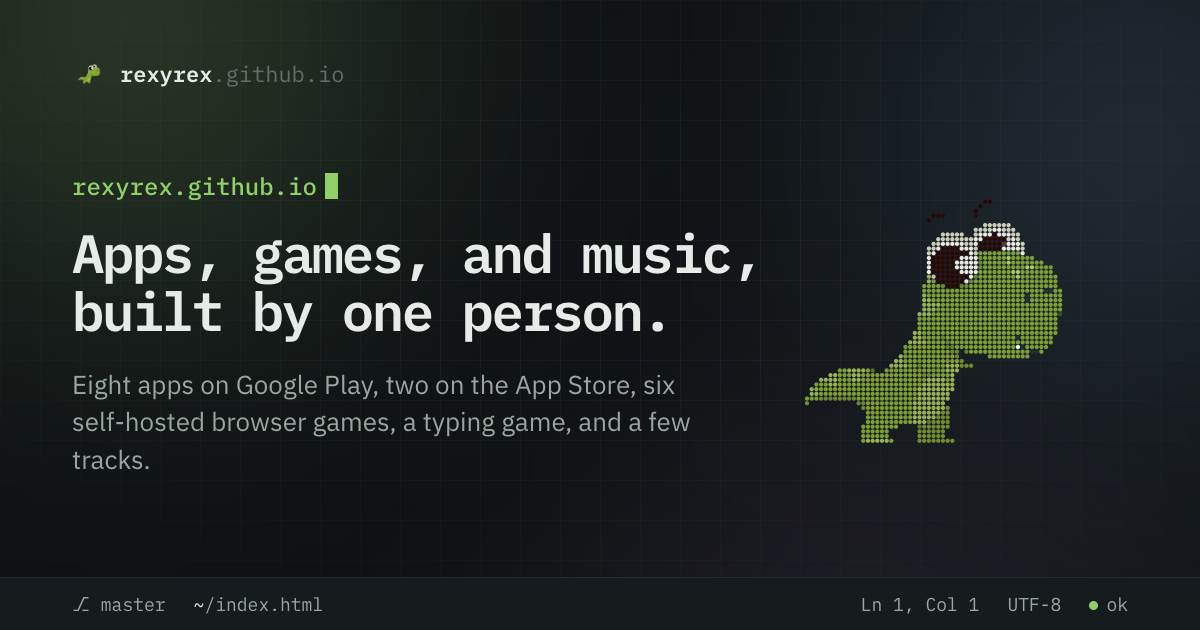
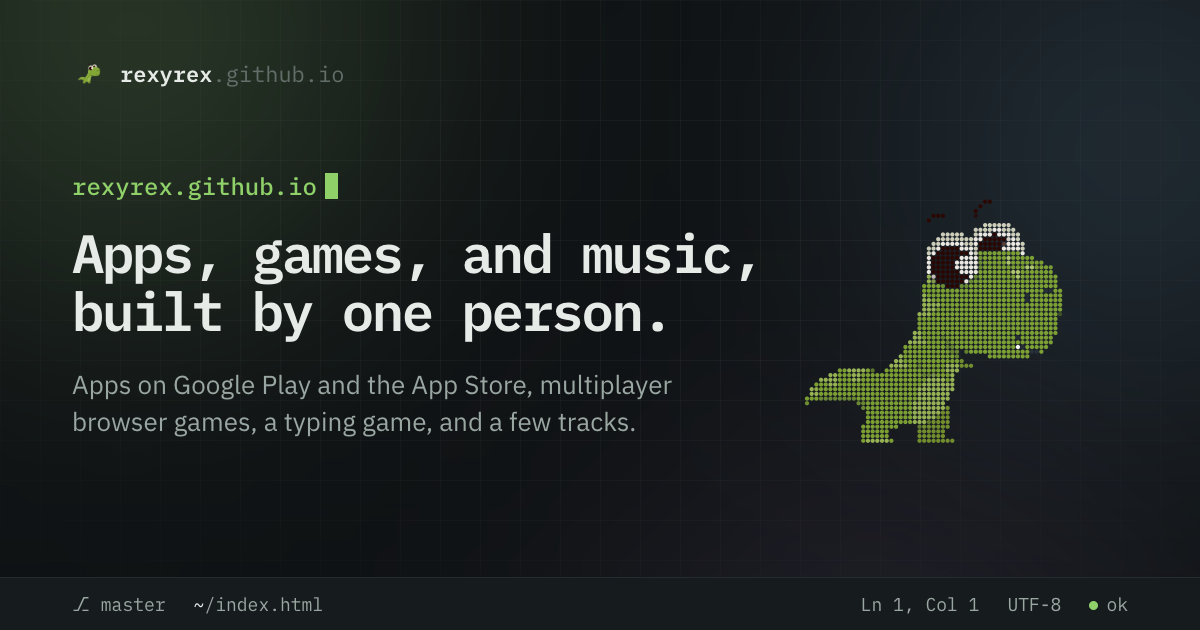
Copy: drop inventory counts and the hosting disclosure
Every "eight apps / two on the App Store / six games" claim on the site is
now an adjective ("apps on Google Play and the App Store", "multiplayer
browser games"), and nothing says where the games portal runs — the
homelab / "box at home" / "self-hosted" phrasing is gone from the landing
page, the meta and social copy, the manifest, the devlog and the README.

Touched: index.html (meta/OG/Twitter, hero lede, statement, apps and games
chapter headings, the net pill, the index rows, the now card),
js/landing.js (pill label), site.webmanifest, _tools/og/render.mjs plus a
re-rendered assets/og/home.png, README.md (with a note to keep new copy
count-free), and the September devlog post, whose title loses "a sixth
game" in favour of "a chapter for the games".

Verified in headless Chrome: no console errors or warnings on the landing
page, /log/ or the renewal post.

Changed region(s): [[0.0617, 0.6032, 0.5858, 0.6937], [0.0617, 0.7238, 0.1233, 0.754]]

diff --git a/index.html b/index.html
@@ -4,7 +4,7 @@
     <meta charset="UTF-8">
     <meta name="viewport" content="width=device-width, initial-scale=1.0, viewport-fit=cover">
     <title>Rexyrex</title>
-    <meta name="description" content="Rexyrex builds mobile apps, games, and music from Korea. Eight apps on Google Play, two on the App Store, six multiplayer browser games, a Korean and English typing game, Deadly Balloons, and KakaoTalk chat analyzers.">
+    <meta name="description" content="Rexyrex builds mobile apps, games, and music from Korea. Apps on Google Play and the App Store, multiplayer browser games, a Korean and English typing game, Deadly Balloons, and KakaoTalk chat analyzers.">
     <meta name="color-scheme" content="dark light">
     <link rel="icon" href="/favicon.ico">
     <link rel="canonical" href="https://rexyrex.github.io/">
@@ -16,14 +16,14 @@
     <meta property="og:site_name" content="rexyrex.github.io">
     <meta property="og:url" content="https://rexyrex.github.io/">
     <meta property="og:title" content="Rexyrex — apps, games, and music, built by one person">
-    <meta property="og:description" content="Eight apps on Google Play, two on the App Store, six self-hosted browser games, a Korean and English typing game, Deadly Balloons, and a few tracks.">
+    <meta property="og:description" content="Apps on Google Play and the App Store, multiplayer browser games, a Korean and English typing game, Deadly Balloons, and a few tracks.">
     <meta property="og:image" content="https://rexyrex.github.io/assets/og/home.png">
     <meta property="og:image:width" content="1200">
     <meta property="og:image:height" content="630">
     <meta property="og:image:alt" content="Rexyrex — apps, games, and music, built by one person">
     <meta name="twitter:card" content="summary_large_image">
     <meta name="twitter:title" content="Rexyrex — apps, games, and music, built by one person">
-    <meta name="twitter:description" content="Eight apps on Google Play, two on the App Store, six self-hosted browser games, a Korean and English typing game, Deadly Balloons, and a few tracks.">
+    <meta name="twitter:description" content="Apps on Google Play and the App Store, multiplayer browser games, a Korean and English typing game, Deadly Balloons, and a few tracks.">
     <meta name="twitter:image" content="https://rexyrex.github.io/assets/og/home.png">
     <script>(function(){var d=document.documentElement;d.classList.add('js');try{var t=localStorage.getItem('rex-theme');if(t==='light'||t==='dark')d.setAttribute('data-theme',t);}catch(e){}})();</script>
     <link rel="preconnect" href="https://fonts.googleapis.com">
@@ -70,8 +70,8 @@
                     <p class="eyebrow hero-eyebrow" id="heroEyebrow" data-hero>rexyrex.github.io</p>
                     <h1 class="hero-title" id="hero-title">Apps, games, and music,<br>built by one person.</h1>
                     <p class="hero-lede" data-hero>
-                        <strong>Rexyrex</strong>, building from Korea: mobile apps on both stores, six multiplayer
-                        browser games on a homelab, a typing game with live leaderboards, and the occasional track.
+                        <strong>Rexyrex</strong>, building from Korea: mobile apps on both stores, multiplayer
+                        browser games, a typing game with live leaderboards, and the occasional track.
                     </p>
                     <div class="hero-actions" data-hero>
                         <a class="btn btn-primary" href="/typing/index.html">Play the typing game <span class="arrow">→</span></a>
@@ -88,7 +88,7 @@
         <!-- 01 · Statement: lights up word by word, then holds while the rex bursts -->
         <section class="statement" id="statement" aria-label="About this site">
             <div class="wrap">
-                <p class="statement-text" id="statementText">Eight apps on Google Play. Two on the App Store. Six browser games. A typing game in two languages. A balloon-popping game in Java. A few tracks. Everything here is designed, built and maintained by one developer in Korea.</p>
+                <p class="statement-text" id="statementText">Apps on Google Play and the App Store. A handful of multiplayer browser games. A typing game in Korean and English. A balloon-popping game in Java. A few tracks. Everything here is designed, built and maintained by one developer in Korea.</p>
             </div>
         </section>
 
@@ -150,13 +150,13 @@
             </div>
         </section>
 
-        <!-- 04 · /apps/ — eight phones scroll sideways as you scroll down -->
+        <!-- 04 · /apps/ — phones scroll sideways as you scroll down -->
         <section class="chapter chapter-apps" id="apps" aria-labelledby="apps-title">
             <div class="stage stage-apps" id="appsStage">
                 <div class="wrap chapter-copy chapter-copy-wide" data-reveal-group>
                     <span class="eyebrow">/apps/</span>
-                    <h2 id="apps-title" data-lines>Eight apps on Google Play, two on the App Store.</h2>
-                    <p>Mostly Flutter, one in native Android, all built and published solo. Every phone links to that app's privacy policy or its store page.</p>
+                    <h2 id="apps-title" data-lines>Published on Google Play and the App Store.</h2>
+                    <p>Mostly Flutter, some native Android, all built and published solo. Every phone links to that app's privacy policy or its store page.</p>
                 </div>
                 <div class="apps-track" id="appsTrack">
 
@@ -356,16 +356,16 @@
             </div>
         </section>
 
-        <!-- 05 · games.rexy.win — six self-hosted browser games -->
+        <!-- 05 · games.rexy.win — multiplayer browser games -->
         <section class="chapter chapter-games" id="games" aria-labelledby="games-title">
             <div class="wrap">
                 <div class="chapter-copy chapter-copy-wide games-copy" data-reveal-group>
                     <span class="eyebrow">games.rexy.win</span>
-                    <h2 id="games-title" data-lines>Six browser games, served from a box at home.</h2>
+                    <h2 id="games-title" data-lines>Multiplayer games that run in a browser tab.</h2>
                     <p>A dino party brawler, a 3D arena shooter, a circuit-board RTS, a cute-horror house, a draw-and-guess party and 3D chess. Multiplayer over WebSockets, no installs, one link each.</p>
                     <div class="chapter-actions">
                         <a class="btn btn-primary" href="https://games.rexy.win" target="_blank" rel="noopener noreferrer">Pick a game</a>
-                        <span class="net-pill" id="gamesNet" data-state="idle"><i class="net-dot" aria-hidden="true"></i><span>dino network</span><b id="gamesNetLabel">6 games</b></span>
+                        <span class="net-pill" id="gamesNet" data-state="idle"><i class="net-dot" aria-hidden="true"></i><span>dino network</span><b id="gamesNetLabel">games</b></span>
                     </div>
                 </div>
                 <div class="games-grid" data-reveal-group>
@@ -499,7 +499,7 @@
                     <span class="index-path">/apps/</span>
                     <span class="index-body">
                         <span class="index-name">Published apps</span>
-                        <span class="index-desc">Eight apps on Google Play, two of them on the App Store too, and their privacy policies.</span>
+                        <span class="index-desc">Apps on Google Play and the App Store, and their privacy policies.</span>
                     </span>
                     <span class="index-meta">Flutter · Android · iOS</span>
                     <span class="index-arrow" aria-hidden="true">→</span>
@@ -508,7 +508,7 @@
                     <span class="index-path">games.rexy.win</span>
                     <span class="index-body">
                         <span class="index-name">Browser games</span>
-                        <span class="index-desc">Six multiplayer browser games, self-hosted on a homelab: Rexy Arcade, FRONTLINE, OVERCLOCK, SPOOKY FRIENDS, DOODLINGS and CHESSLINGS.</span>
+                        <span class="index-desc">Multiplayer browser games: Rexy Arcade, FRONTLINE, OVERCLOCK, SPOOKY FRIENDS, DOODLINGS and CHESSLINGS.</span>
                     </span>
                     <span class="index-meta">Node · WebSockets · Three.js</span>
                     <span class="index-arrow" aria-hidden="true">↗</span>
@@ -573,7 +573,7 @@
                     <span class="eyebrow">now</span>
                     <h3 id="now-title">What's moving</h3>
                     <ul class="now-list">
-                        <li><i class="now-dot is-live" aria-hidden="true"></i><span><b>DOODLINGS</b> just joined the games portal as the sixth game.</span></li>
+                        <li><i class="now-dot is-live" aria-hidden="true"></i><span><b>DOODLINGS</b> just joined the games portal.</span></li>
                         <li><i class="now-dot" aria-hidden="true"></i><span><b>Reverse Image Search</b> is being prepared for the App Store.</span></li>
                         <li><i class="now-dot" aria-hidden="true"></i><span>A handful of unreleased apps are in the lab.</span></li>
                         <li><i class="now-dot" aria-hidden="true"></i><span>This site: a command palette (<kbd data-palette-kbd>⌘K</kbd>), a <a href="/log/">devlog</a>, social cards, page transitions.</span></li>

diff --git a/log/2026-09-renewal.html b/log/2026-09-renewal.html
@@ -3,7 +3,7 @@
 <head>
     <meta charset="UTF-8">
     <meta name="viewport" content="width=device-width, initial-scale=1.0">
-    <title>A command palette, page transitions and a sixth game — Rexyrex</title>
+    <title>A command palette, page transitions and a chapter for the games — Rexyrex</title>
     <meta name="description" content="What changed on rexyrex.github.io in September 2026: a command palette on every page, cross-document view transitions, a games chapter, social cards, a 404 page and a web manifest.">
     <meta name="color-scheme" content="dark light">
     <link rel="icon" href="/favicon.ico">
@@ -15,7 +15,7 @@
     <meta property="og:type" content="article">
     <meta property="og:site_name" content="rexyrex.github.io">
     <meta property="og:url" content="https://rexyrex.github.io/log/2026-09-renewal.html">
-    <meta property="og:title" content="A command palette, page transitions and a sixth game">
+    <meta property="og:title" content="A command palette, page transitions and a chapter for the games">
     <meta property="og:description" content="What changed on the site in September 2026.">
     <meta property="og:image" content="https://rexyrex.github.io/assets/og/log.png">
     <meta property="og:image:width" content="1200">
@@ -23,7 +23,7 @@
     <meta property="og:image:alt" content="Devlog — Rexyrex">
     <meta property="article:published_time" content="2026-09-09">
     <meta name="twitter:card" content="summary_large_image">
-    <meta name="twitter:title" content="A command palette, page transitions and a sixth game">
+    <meta name="twitter:title" content="A command palette, page transitions and a chapter for the games">
     <meta name="twitter:description" content="What changed on the site in September 2026.">
     <meta name="twitter:image" content="https://rexyrex.github.io/assets/og/log.png">
     <script>(function(){try{var t=localStorage.getItem('rex-theme');if(t==='light'||t==='dark')document.documentElement.setAttribute('data-theme',t);}catch(e){}})();</script>
@@ -41,22 +41,22 @@
     <main class="wrap" id="main">
         <header class="post-head" data-reveal-group>
             <p class="eyebrow">/log/2026-09-renewal.html</p>
-            <h1>A command palette, page transitions and a sixth game</h1>
+            <h1>A command palette, page transitions and a chapter for the games</h1>
             <p class="post-meta"><time datetime="2026-09-09">2026-09-09</time><span>·</span><span>site · chrome</span><span>·</span><span>4 min</span></p>
             <p class="lede">The front page got its scroll story last week. This week is about everything around it: the chrome every page shares, what a shared link looks like, and the things a site is expected to have in 2026.</p>
         </header>
 
         <article class="article post" data-reveal-group>
             <h2>⌘K on every page</h2>
-            <p>Press <kbd>⌘K</kbd> (<kbd>Ctrl K</kbd> elsewhere), or click the search button in the top bar or the status bar. A palette lists every page, all six games, every published app with its privacy policy, and a few actions: toggle the theme, copy the e-mail address, jump to the top, open the current page's source on GitHub. Type to filter, arrows to move, enter to go. It is one dependency-free file, <code>/js/palette.js</code>, that the chrome loader injects everywhere, including the generated privacy-policy pages and the Bootstrap-era typing game, where it also swallows its own keystrokes so the game does not count them.</p>
+            <p>Press <kbd>⌘K</kbd> (<kbd>Ctrl K</kbd> elsewhere), or click the search button in the top bar or the status bar. A palette lists every page, every game, every published app with its privacy policy, and a few actions: toggle the theme, copy the e-mail address, jump to the top, open the current page's source on GitHub. Type to filter, arrows to move, enter to go. It is one dependency-free file, <code>/js/palette.js</code>, that the chrome loader injects everywhere, including the generated privacy-policy pages and the Bootstrap-era typing game, where it also swallows its own keystrokes so the game does not count them.</p>
 
             <h2>Pages crossfade instead of flashing</h2>
             <p>The site is plain multi-page HTML, and it now opts into cross-document view transitions with a single rule, <code>@view-transition { navigation: auto }</code>. Same-origin navigations crossfade; the top bar and the status bar carry <code>view-transition-name</code>s so they hold still while the page underneath changes. The one trick needed: the bars are fetched at runtime, so the loader now keeps a copy of the fragment in <code>sessionStorage</code> and mounts it synchronously on the next page, before the browser snapshots it. Reduced motion turns the transitions off.</p>
 
             <h2>A chapter for the games</h2>
-            <p>Six self-hosted multiplayer games were the most impressive thing on the site and they had one row in the index. They have a chapter now, between the phones and the music: six little browser windows, each drawn in CSS in the game's own two accent colours from the portal's registry, with a tile maze, a crosshair over a floor grid, circuit traces, a flashlight beam with blinking eyes, a scribble that draws itself, and a chessboard. The "dino network" pill turns green when the portal answers a ping.</p>
+            <p>The multiplayer games were the most impressive thing on the site and they had one row in the index. They have a chapter now, between the phones and the music: a little browser window per game, each drawn in CSS in the game's own two accent colours from the portal's registry, with a tile maze, a crosshair over a floor grid, circuit traces, a flashlight beam with blinking eyes, a scribble that draws itself, and a chessboard. The "dino network" pill turns green when the portal answers a ping.</p>
             <p>That ping deserves a note. The portal's status API does not send a CORS header yet, so the page makes an opaque <code>no-cors</code> request: it resolves when the server answers at all and rejects when it does not, which is an honest "up" without a console full of red. When the header lands, the same pill can show per-game status.</p>
-            <p>The count itself was already stale: the copy said five games while the portal served six, DOODLINGS having launched in the meantime. Every number on the page is a hand-typed claim, so this post is also a reminder to check them.</p>
+            <p>The old copy was stale too — it had missed DOODLINGS launching in the meantime. Hand-typed claims about a moving list go out of date, so the copy no longer counts anything: the portal is the source of truth, and the page just points at it.</p>
 
             <h2>What a shared link looks like</h2>
             <p>Every hand-written page now has Open Graph and Twitter card tags and its own 1200×630 image: the page's path, its title, and the rex rendered as a dot matrix from the same PNG the particle hero uses. Pasting a link into KakaoTalk, Discord or X finally shows something. The cards are rendered from an HTML template in headless Chrome, so a new page is a new line in a list.</p>

diff --git a/js/landing.js b/js/landing.js
@@ -287,7 +287,7 @@
         phones.forEach(function (p) { io.observe(p); });
     })();
 
-    // games.rexy.win pill: "6 games · up" once the portal answers a ping
+    // games.rexy.win pill: "games · up" once the portal answers a ping
     // (common.js does the opaque request; see rexChrome.pingGames).
     (function () {
         var pill = document.getElementById('gamesNet');
@@ -296,7 +296,7 @@
         window.rexChrome.pingGames().then(function (up) {
             if (up === null) return;
             pill.setAttribute('data-state', up ? 'up' : 'down');
-            if (label) label.textContent = up ? '6 games · up' : '6 games · offline';
+            if (label) label.textContent = up ? 'games · up' : 'games · offline';
         });
     })();
 

diff --git a/log/index.html b/log/index.html
@@ -48,7 +48,7 @@
             <a class="log-row" href="/log/2026-09-renewal.html">
                 <span class="log-date"><time datetime="2026-09-09">2026-09-09</time></span>
                 <span class="log-body">
-                    <span class="log-title">A command palette, page transitions and a sixth game</span>
+                    <span class="log-title">A command palette, page transitions and a chapter for the games</span>
                     <span class="log-desc">What changed on the site in September: ⌘K everywhere, cross-document view transitions, a games chapter fed by the portal, social cards, a 404 page, a manifest.</span>
                 </span>
                 <span class="log-tags"><i>site</i><i>chrome</i></span>

diff --git a/README.md b/README.md
@@ -1,6 +1,6 @@
 # rexyrex.github.io
 
-Personal GitHub Pages site for [rexyrex](https://github.com/rexyrex) — an index of what Rexyrex ships: mobile apps (eight on Google Play, two on the App Store), six self-hosted browser games, music, a devlog, and the privacy-policy / support pages for published apps.
+Personal GitHub Pages site for [rexyrex](https://github.com/rexyrex) — an index of what Rexyrex ships: mobile apps (Google Play and the App Store), multiplayer browser games, music, a devlog, and the privacy-policy / support pages for published apps.
 
 ## Pages
 
@@ -41,7 +41,7 @@ The landing page is an Apple-style scroll story. Files: `css/landing.css` (hero,
 - **/typing/** — a plain section; the editor mockup types generic Korean, English and Java sentences on its own (time-based, human-ish rhythm) while it is on screen, cycling through the tabs.
 - **/deadlyBalloons/** — pinned sky with thirty generated balloons at random depths (nearer = bigger, faster, on top; far = small and soft). A dozen pop on their own along the ride — ring flash, shards, "+100" — and every other balloon pops when clicked. A HUD keeps score.
 - **/apps/** — pinned horizontal track of eight CSS phones, each a small app mockup (status bar, app bar, cards, charts, chat, a mini game) with one tint per app. Phones tilt toward the pointer; their bars, rings and sparklines animate in when they come on screen. Native snap scrolling on narrow screens and in windows under 700px tall.
-- **games.rexy.win** — a plain reveal section (not pinned): six "browser windows", one per game, each drawn in CSS in the game's two accent colours from the portal's registry (tile maze + fire eggs, crosshair over a perspective floor, circuit traces, flashlight beam + blinking eyes, a self-drawing scribble, a chessboard). The "dino network" pill turns green when `rexChrome.pingGames()` resolves. The cards are static HTML — when the portal adds a game, add a card here, a row in the index, an entry in `js/palette.js` and bump the counts in the copy.
+- **games.rexy.win** — a plain reveal section (not pinned): one "browser window" per game, each drawn in CSS in the game's two accent colours from the portal's registry (tile maze + fire eggs, crosshair over a perspective floor, circuit traces, flashlight beam + blinking eyes, a self-drawing scribble, a chessboard). The "dino network" pill turns green when `rexChrome.pingGames()` resolves. The cards are static HTML — when the portal adds a game, add a card here, a row in the index and an entry in `js/palette.js`. Keep the copy count-free: the public pages describe the portal with adjectives ("multiplayer browser games"), never a tally, and never say where it is hosted.
 - **/music/** — waveform bars that grow in on scroll and rise under the pointer.
 - **Index + now + contact** — the directory listing, then a two-column contact section with a dated "now" card (`.now`, hand-edited; keep the stamp honest).
 - **Headlines** slide up out of line masks, the e-mail rises letter by letter, index rows get a light sweep on hover.
@@ -74,7 +74,7 @@ Rules that keep it working:
 
 ### Command palette (`/js/palette.js`)
 
-`⌘K` / `Ctrl K`, any `[data-palette-open]` button, or `window.rexPalette.open()`. A `<dialog>` listing pages, the six games, every published app (privacy policy or store page), actions (toggle theme, copy / write e-mail, scroll to top, view this page's source) and the outbound links. Substring scoring with a subsequence fallback on titles; arrows / Tab / Enter / Esc; keystrokes inside the dialog are stopped so the typing game's document-level handler never counts them. The site index is also published as `window.rexSiteIndex` (event `rex:site-index`), which `/404.html` uses for its suggestions. Add a page or app there when you add one to the site.
+`⌘K` / `Ctrl K`, any `[data-palette-open]` button, or `window.rexPalette.open()`. A `<dialog>` listing pages, the games, every published app (privacy policy or store page), actions (toggle theme, copy / write e-mail, scroll to top, view this page's source) and the outbound links. Substring scoring with a subsequence fallback on titles; arrows / Tab / Enter / Esc; keystrokes inside the dialog are stopped so the typing game's document-level handler never counts them. The site index is also published as `window.rexSiteIndex` (event `rex:site-index`), which `/404.html` uses for its suggestions. Add a page or app there when you add one to the site.
 
 Because the chrome is fetched at runtime, pages must be served over HTTP — `file://` won't show it:
 
